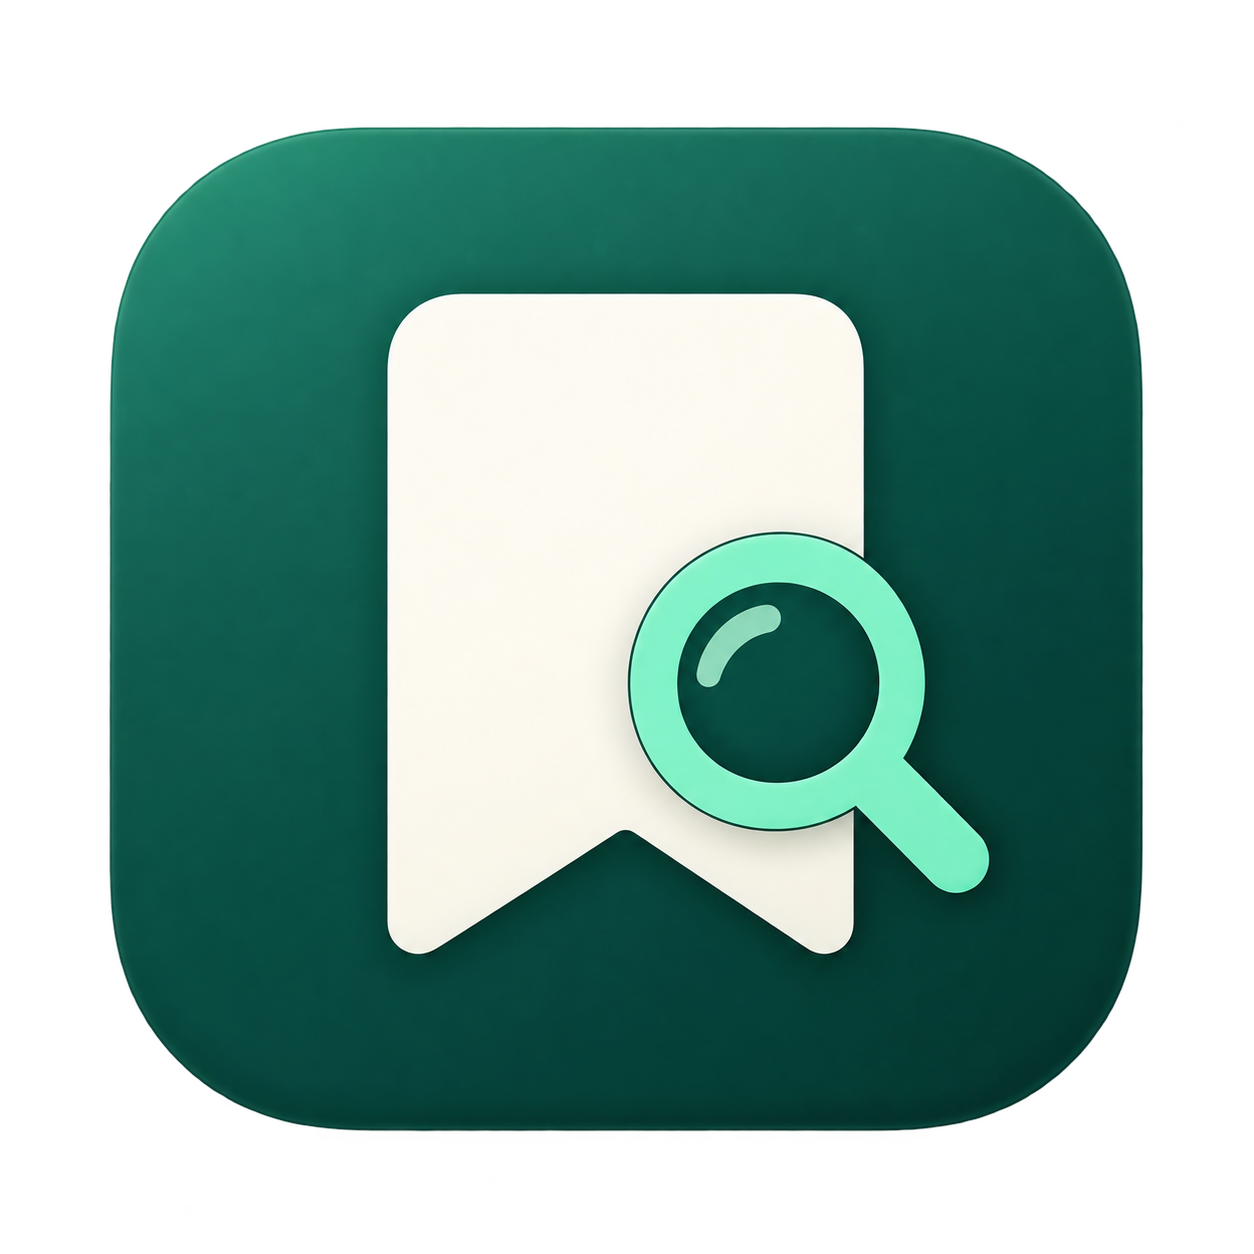
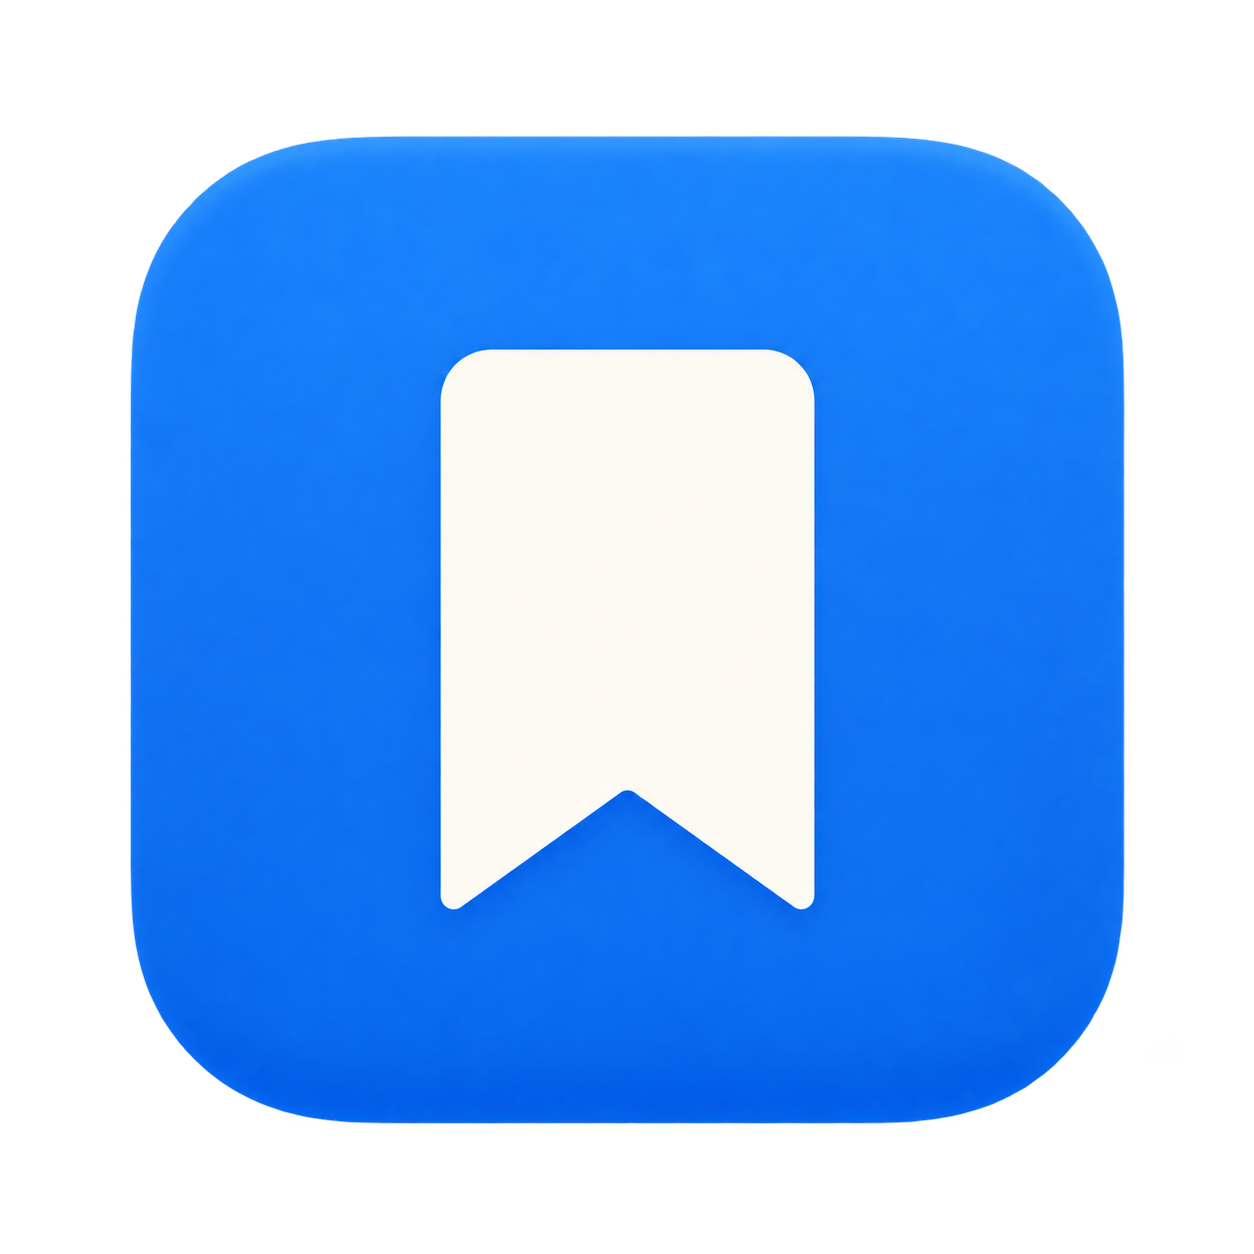
style: アイコンを青いブックマークに変更

diff --git a/Assets/README.md b/Assets/README.md
@@ -1,11 +1,11 @@
 # アプリアイコン
 
-`AppIcon.png` は内蔵の image_gen で生成した元画像。アプリと Alfred Workflow で共用する。
+`AppIcon.png` は内蔵の image_gen で生成・編集した、青地に白いブックマークの元画像。アプリと Alfred Workflow で共用する。
 `bash scripts/build-icons.sh` が macOS 標準の `sips` で各サイズの PNG を作り、Python 標準ライブラリで ICNS に格納する。通常は `scripts/build.sh` から呼ばれる。
 ICNS のサイズ種別と PNG の格納形式は [Pillow の ICNS 実装](https://github.com/python-pillow/Pillow/blob/main/src/PIL/IcnsImagePlugin.py)を参照。
 
 生成時のプロンプト:
 
 ```text
-Use case: logo-brand. Create one production macOS app icon for Hatebu Search, a personal bookmark search app. Square 1024 x 1024 PNG with genuine transparent alpha outside the icon silhouette. A refined rounded-square deep forest teal tile with very subtle surface depth, containing one bold ivory bookmark ribbon and a small mint magnifying-glass symbol overlapping its lower right. Simple unmistakable geometry readable at 32 pixels, generous clean margins, centered compact composition. Match the app's deep green and mint palette. No lettering, no wordmarks, no B!, no Hatena logo, no decorative sparkles, no mockup, no perspective, no outer background. The actual rounded-square tile should occupy roughly 84 percent of the canvas width and height, with transparent corners and surrounding padding. Render the icon asset only.
+Use case: logo-brand. Create one production macOS app icon for Hatebu Search, a personal bookmark app. Square 1024 x 1024 PNG with genuine transparent alpha outside the icon silhouette. A refined rounded-square saturated cobalt blue tile based on #1671E8, with very subtle surface depth, containing one bold centered ivory bookmark ribbon with a V-shaped notch at the bottom and gently rounded top corners. There is only one symbol: the bookmark. Simple unmistakable geometry readable at 32 pixels, generous clean margins, centered compact composition. No lettering, no wordmarks, no B!, no Hatena logo, no magnifying glass, no decorative sparkles, no mockup, no perspective, no outer background. The actual rounded-square tile should occupy roughly 84 percent of the canvas width and height, with transparent corners and surrounding padding. Render the icon asset only. Use actual transparent pixels outside the blue tile; do not paint a checkerboard pattern.
 ```
